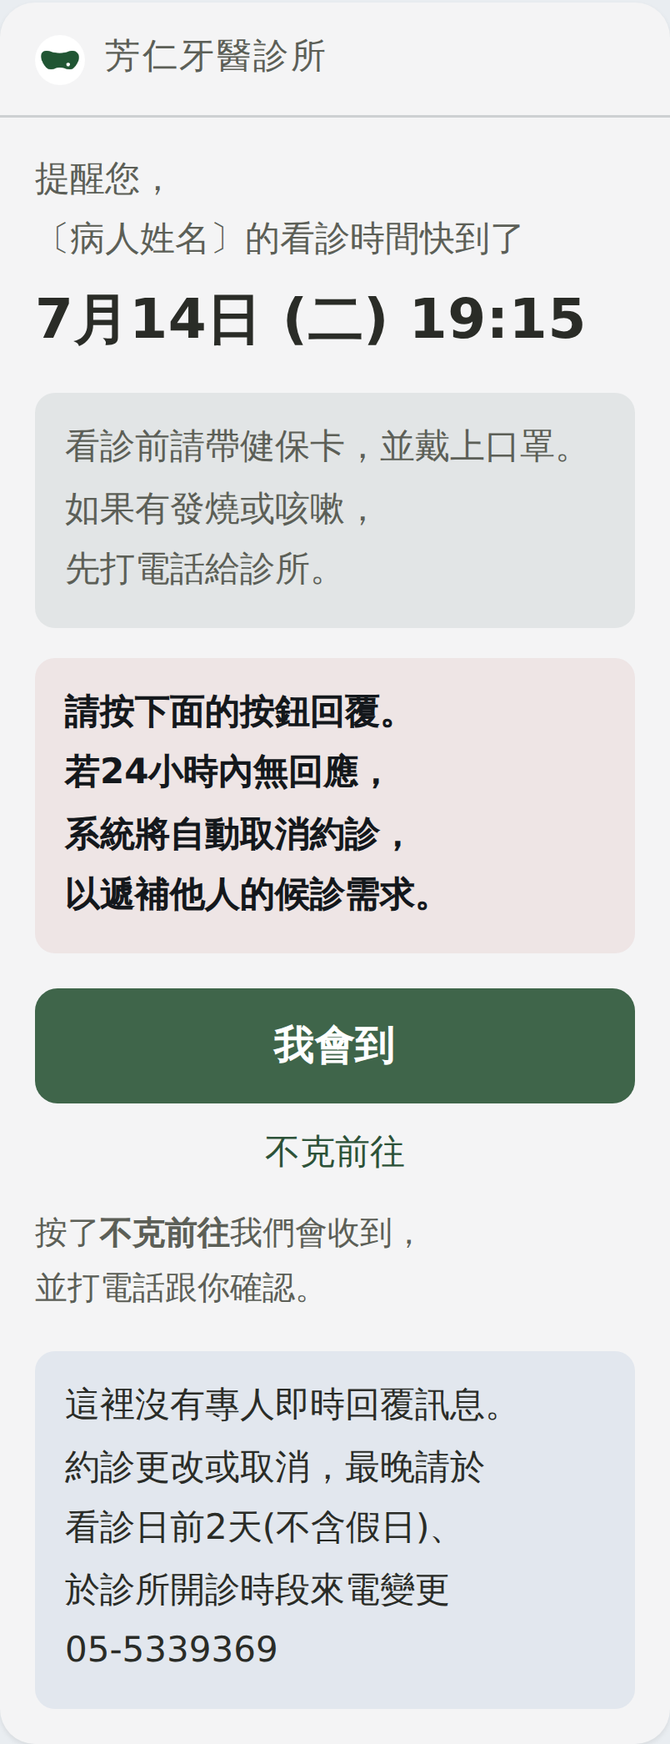
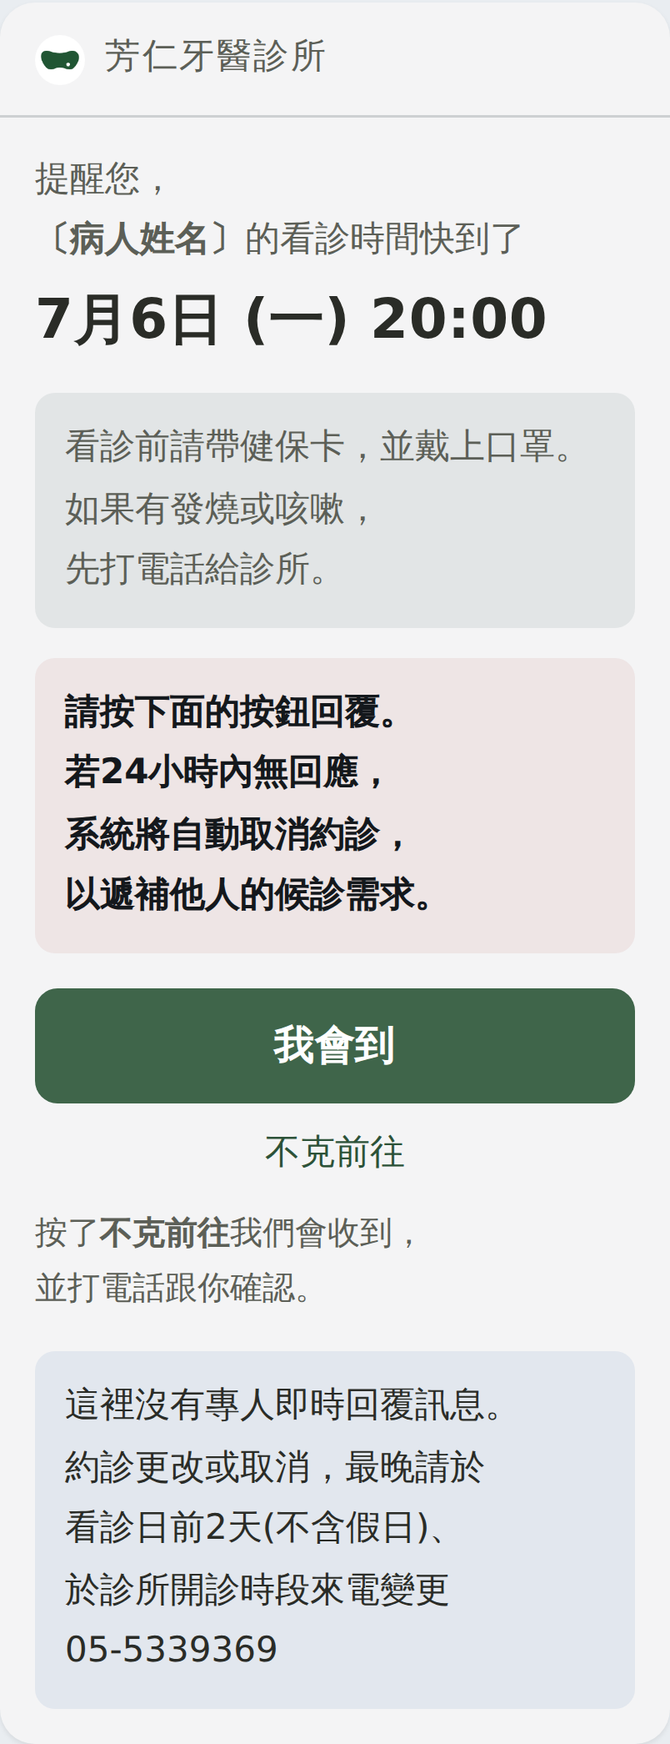
提醒卡：照真截圖把現況重做（量的，不是描的）＋ 兩件新發現
使用者給了現況的真截圖。自己解 PNG 逐像素量出來，前一版「照描」的
現況每一個數字都錯了：內文 16 不是 14、姓名與日期 22 不是 14/19、
內距 22 不是 13、標題列 43.7、按鈕 60、「⚠ 就診須知 ⚠」是靠右不是置中。
重量之後現況 615px(73%) 而不是 438px(52%) —— 新版只多 81px，
不是原本說的多 258px。忠實度：撐到截圖那個寬度差 5.5%。

兩件新發現：
・那張截圖是診所端的後台不是病人手機（標題是病人名字、有「使用手動
  聊天」與「已讀」），所以卡片 348px 不是病人看到的寬度。順帶記下
  268 這個數字我們從來沒在病人手機上量過。
・⚠⚠ 它不是 48 小時送的：7/3(五)送、約診 7/6(一)，整整 3 天。
  可能是系統會避開休診日（那 19-12 那題有一半有答案了），也可能是
  固定 3 天前。一個樣本推不出通則，要再看一兩則。

新版跟著改一件：姓名加粗（不放大，日期仍然最大），高度一毛不花。

Claude-Session: https://claude.ai/code/session_01UiTa6aiLj4tvM4QQAkTm2r

Changed region(s): [[0.0933, 0.1243, 0.8706, 0.2176]]

diff --git a/preview/line-remind/index.html b/preview/line-remind/index.html
@@ -69,23 +69,41 @@ h1{font-size:1rem;font-weight:700;letter-spacing:.02em}
 .pv-hc{width:100%;border-radius:14px;overflow:hidden;
   box-shadow:0 1px 2px rgba(0,0,0,.08)}
 
-/* ---- Ⓐ 現況：照使用者提供的截圖重做 ---------------------------------
-   ⚠ 顏色是從截圖描的（橄欖綠標題列、紅字），**不是站上的色** ——
-     它們刻意不寫進 PALETTE.md，也不要拿去別的地方用。 */
+/* ---- Ⓐ 現況：**從使用者 2026-09-04 提供的真截圖逐項量出來的** -------
+   ⚠⚠ 那張截圖是**診所端的後台聊天室**（標題是病人的名字、底下有「使用手動聊天」
+     與「預約傳送」、卡片下面有「已讀」），**不是病人的手機**。
+     所以**那裡的卡片寬度 348px 不能拿來當病人看到的寬度** —— 這一頁仍然照 268px 畫。
+   ⚠ 但**字級可以拿**：Flex 的字級是固定 px，跟卡片多寬無關。
+   量到的（375 CSS px 的螢幕、3× 截圖，逐像素解出來）：
+     卡片 348 × 約 560px、左右內距 22px
+     標題列 高 43.7px、白字 19px、置中
+     病人姓名 22px；「提醒您，您的看診時間將至」等內文與清單 16px
+       （「請問您是否前往看診呢？」11 個全形字 ＝ 176.0px，16 整除）
+     日期 22px 粗體
+     「⚠ 就診須知 ⚠」**靠右**（中心 245.3，而版心中心是 174）—— 不是置中
+     紅字置中 16px；綠色藥丸鈕 高 60px、左右比文字內距各外擴 14.5px
+     「不克前往，預約改期」19px 置中
+   ⚠ 顏色是從截圖描的（橄欖綠 #7c8a63、紅字 #d0021b），**不是站上的色** ——
+     刻意不寫進 PALETTE.md，也不要拿去別的地方用。
+   ⚠⚠ 這一頁把它畫在 **268px** 上（病人那一側的寬度），所以它會比截圖裡**更高、
+     折更多行** —— 那是預測不是量測，面板上的高度要這樣讀。 */
 .pv-old{background:#fff;color:#333}
 .pv-old .h{background:#7c8a63;color:#fff;font-weight:700;text-align:center;
-  padding:10px 8px;font-size:16px;line-height:1.5}
-.pv-old .b{padding:12px 13px 14px;font-size:14px;line-height:1.7}
+  padding:9px 8px;font-size:19px;line-height:1.35}
+.pv-old .b{padding:18px 22px 18px;font-size:16px;line-height:1.7}
 .pv-old .who{color:#555}
-.pv-old .dt{font-weight:700;color:#111;font-size:19px;margin:8px 0 10px}
+.pv-old .who .nm{font-size:22px;color:#333}
+.pv-old .dt{font-weight:700;color:#111;font-size:22px;line-height:1.4;margin:10px 0 0}
 .pv-old hr{border:0;border-top:1px solid #e0e0e0;margin:10px 0}
-.pv-old .nh{text-align:center;font-weight:700;color:#333;margin-bottom:5px;font-size:14px}
-.pv-old ol{margin:0 0 0 1.25em;padding:0;font-size:13px;line-height:1.75}
-.pv-old ol li{margin:3px 0}
-.pv-old .red{color:#d0021b;font-weight:700;text-align:center;margin:11px 0 9px;font-size:13px}
+/* ⚠ 靠右不是置中 —— 量出來中心偏右 71px。 */
+.pv-old .nh{text-align:right;font-weight:700;color:#333;margin-bottom:11px;font-size:19px}
+.pv-old ol{margin:0 0 0 1.4em;padding:0;line-height:1.75}
+.pv-old ol li{margin:9px 0}
+.pv-old .red{color:#d0021b;font-weight:700;text-align:center;margin:10px 0 8px}
+/* 藥丸鈕比文字內距**再往外**：量到左右各離卡片邊 7.5px，而內距是 22 → 外擴 14.5 */
 .pv-old .btn{background:#7c8a63;color:#fff;font-weight:700;text-align:center;
-  padding:11px;border-radius:22px;font-size:16px}
-.pv-old .sub{color:#7c8a63;text-align:center;font-size:14px;padding-top:10px}
+  padding:16px;border-radius:30px;font-size:19px;line-height:1.4;margin:0 -14px}
+.pv-old .sub{color:#7c8a63;text-align:center;font-size:19px;padding-top:12px}
 
 /* ---- Ⓑ 新版：和招呼圖卡／綁定完成同一套（卡 268、內距 14）------------
    顏色一顆都沒新增，全部回 PALETTE.md 拿：
@@ -196,10 +214,10 @@ h1{font-size:1rem;font-weight:700;letter-spacing:.02em}
   <div class="pv-phone">
     <div class="pv-head"><img src="../../assets/icon-192.png" alt=""><span class="b">芳仁牙醫診所</span><span class="x">⋯</span></div>
     <div class="pv-chat">
-      <div class="pv-day">7 月 12 日</div>
+      <div class="pv-day">7 月 3 日（五）</div>
       <div class="pv-msg"><img class="pv-av" src="../../assets/icon-192.png" alt="">
         <div id="pv-slot"></div>
-        <span class="pv-t">10:00</span></div>
+        <span class="pv-t">20:00</span></div>
     </div>
   </div>
   <p class="pv-cap">↑ 這一則是<b>診所這一側主動送出</b>的，所以聊天室裡沒有病人自己的訊息。
@@ -239,16 +257,27 @@ h1{font-size:1rem;font-weight:700;letter-spacing:.02em}
   /* ---- 現況（照截圖，姓名已遮）------------------------------------- */
   var OLD = {
     name: "Ⓐ 現況",
-    note: "廠商系統現在送出的那一張（照你提供的截圖重做，顏色是從截圖描的）。"
-      + "六件問題在 channels/README 第 9-1 節：<b>飽和的橄欖綠滿版標題列</b>、"
+    note: "廠商系統現在送出的那一張。<b>2026-09-04 你給了真截圖，這一份是逐像素量出來重做的</b>"
+      + "（不是照描）：內文與清單 <b>16px</b>、病人姓名與日期 <b>22px</b>、標題列與"
+      + "「不克前往」<b>19px</b>、左右內距 <b>22px</b>、標題列高 <b>43.7px</b>、"
+      + "藥丸鈕高 <b>60px</b>（左右比文字內距各再外擴 14.5px）。"
+      + "<br>⚠ 量法：「請問您是否前往看診呢？」11 個全形字量到 <b>176.0px</b>，"
+      + "16 整除 —— <b>字級是算出來的，不是目測的</b>。"
+      + "<hr>六件問題在 channels/README 第 9-1 節：<b>飽和的橄欖綠滿版標題列</b>、"
       + "<b>⚠ 就診須知 ⚠</b>（把戴口罩講成警報）、<b>紅字＋↓↓ 箭頭</b>、"
       + "<b>「點此 👉 確定會到！」</b>（emoji ＋ 驚嘆號 ＋「點此」三重用力）、"
-      + "<b>編號清單＋『』引號</b>（公文體）、以及<b>資訊層級亂</b>——"
+      + "<b>編號清單＋『』引號</b>（公文體）、以及<b>資訊層級亂</b> —— "
       + "日期雖然大，卻被上下的雜訊淹沒。"
-      + "<br>⚠ 另外三件是**事實**不是美感："
+      + "<br>⚠⚠ 截圖還量到<b>第七件</b>，之前沒發現：那一行「⚠ 就診須知 ⚠」"
+      + "<b>是靠右的，不是置中</b>（中心 245.3，而版心中心是 174）—— "
+      + "它和上下每一段都沒有對齊。"
+      + "<br>⚠⚠ 以及<b>第八件</b>：「2. 有發燒/咳嗽/呼吸道症狀等，請來電改約」"
+      + "<b>在截圖上真的折出一個孤字「約」</b>（量到那一行只有 13.7px 寬）。"
+      + "<hr>另外三件是<b>事實</b>不是美感："
       + "①標題寫「<b>斗六</b>芳仁牙醫診所」，站上與其他每一個地方都是「芳仁牙醫診所」；"
       + "②「〔病人姓名〕 提醒您」的語序讀起來像<b>那個人在提醒你</b>"
-      + "（名字本身是必要的 —— 一個帳號收得到好幾個家人的提醒，那是唯一分得出是誰的線索）；"
+      + "（名字本身是必要的 —— 一個帳號收得到好幾個家人的提醒，那是唯一分得出是誰的線索。"
+      + "⚠ 而它<b>把名字放到 22px</b>，那是這張卡少數做對的一件）；"
       + "③須知第 2 條「請來電改約」和底下那顆「不克前往，預約改期」<b>互相矛盾</b>"
       + "（一個叫他打電話、一個叫他按按鈕）。"
   };
@@ -316,9 +345,10 @@ h1{font-size:1rem;font-weight:700;letter-spacing:.02em}
     return '<div class="pv-hc pv-old" id="pv-body">'
       + '<div class="h">斗六芳仁牙醫診所</div>'
       + '<div class="b">'
-      + '<div class="who">〔病人姓名〕 提醒您，您的看診時間將至 請問您是否前往看診呢？</div>'
-      + '<div class="dt">2026/07/14 (二) 19:15</div><hr>'
-      + '<div class="nh">⚠ 就診須知 ⚠</div>'
+      + '<div class="who"><span class="nm">〔病人姓名〕</span> 提醒您，您的看診時間將至 '
+      + '請問您是否前往看診呢？</div>'
+      + '<div class="dt">2026/07/06 (一) 20:00</div><hr>'
+      + '<div class="nh">\u26a0\ufe0f 就診須知 \u26a0\ufe0f</div>'
       + '<ol><li>進入醫療場所者請戴『口罩』與攜帶『健保卡』</li>'
       + '<li>有發燒/咳嗽/呼吸道症狀等，請來電改約</li></ol><hr>'
       + '<div class="red">↓ 請點擊下方按鈕，回覆是否前往看診 ↓</div>'
@@ -338,8 +368,12 @@ h1{font-size:1rem;font-weight:700;letter-spacing:.02em}
       + '<div class="top"><img src="../../assets/icon-192.png" alt=""><b>芳仁牙醫診所</b></div>'
       + '<div class="b">'
       + '<p class="lead">提醒您，</p>'
-      + '<p class="lead nm" id="pv-lead">〔病人姓名〕的看診時間快到了</p>'
-      + '<p class="dt">7月14日 (二) 19:15</p>';
+      /* ⚠ 姓名加粗（Flex 就是一個 span 加 weight: bold，顏色不動）——
+           現況那一張把姓名放到 22px，那是它少數做對的一件：一個帳號收好幾個
+           家人的提醒，「這一次是誰」和「什麼時候」一樣要一眼看到。
+           但這一頁的層級是**日期最大**，所以名字不放大、改用加粗，高度一毛不花。 */
+      + '<p class="lead nm" id="pv-lead"><b>〔病人姓名〕</b>的看診時間快到了</p>'
+      + '<p class="dt">7月6日 (一) 20:00</p>';
     if (kn !== "none") h += '<p class="box know">' + KNOW[kn].text + '</p>';
     if (wa === "box")  h += '<p class="box warn">' + WARN_TEXT + '</p>';
     if (wa === "line") h += '<p class="warnline">' + WARN_TEXT + '</p>';
@@ -520,10 +554,13 @@ h1{font-size:1rem;font-weight:700;letter-spacing:.02em}
           ? "<span class='no'>出現「" + lied.join("、") + "」</span>"
           : "<span class='ok'>守住了</span>")
       + (v === "old"
-          ? "<br><span class='no'>⚠ 現況這一張是照截圖重做的**近似**</span>"
-            + "：字級用 Flex 的固定 px 表填的，廠商實際用多大我們沒有量過。"
-            + "所以上面的 px 與行數只能拿來看**結構**，不要當成它的真值；"
-            + "emoji、紅字、白字對綠底那三項才是逐項對得上的。"
+          ? "<br>⚠ 這一張是<b>從你 2026-09-04 的真截圖逐像素量出來</b>重做的"
+            + "（字級 16／19／22、內距 22、標題列 43.7、按鈕 60、就診須知靠右）。"
+            + "<b>忠實度</b>：把它撐到截圖那個寬度（348px）量到 <b>529px</b>，"
+            + "截圖是 <b>約 560px</b> —— <b>差 5.5%</b>，字級、標題列高、按鈕高、"
+            + "按鈕外擴、靠右都對得上。"
+            + "<br><span class='no'>⚠⚠ 但這裡畫在 268px 上，那是<b>預測不是量測</b></span>"
+            + "：你那張截圖是<b>診所端的後台</b>（卡片 348px），病人手機上比較窄。"
           : "")
       + "<hr>" + (v === "old" ? OLD.note : newNote());
   }
@@ -599,6 +636,33 @@ h1{font-size:1rem;font-weight:700;letter-spacing:.02em}
       + "<b>所以它非寫在這裡不可</b>，不然病人是在不知情的狀態下被計時。"
       + "<br>③ 家人綁定要洽櫃檯 —— <b>那一件不寫在這張卡上</b>："
       + "收到這一則的人早就綁好了，寫了是雜訊。"
+      + "<hr>"
+      + "⚠⚠⚠ <b>你那張截圖挖出一件我們一直搞錯的事：它不是 48 小時送的。</b>"
+      + "截圖上那一則的日期分隔是 <b>7/3（五）</b>，約診是 <b>7/6（一）20:00</b> —— "
+      + "<b>整整 3 天，不是 48 小時。</b>"
+      + "<br>48 小時前是<b>週六 20:00</b>，診所沒開。所以有兩種可能，"
+      + "<b>而兩種的意思完全不同</b>："
+      + "<br>　① 系統<b>會避開休診日</b>，自動往前挪到前一個開診日（週五）——"
+      + "那 <b>19-12 節那一題有一半已經有答案了</b>（那 24 小時大概也跟著跳過休診日）。"
+      + "<br>　② 它根本就是<b>固定 3 天前</b>送，和開不開診無關 —— 那只是這一次剛好落在週五。"
+      + "<br>⚠⚠ <b>一個樣本推不出通則</b>（同分享圖那一輪「LINE 不裁圖」的教訓）——"
+      + "<b>要再看一兩則不同星期的提醒才分得出來</b>：例如週三、週四的約診各一張截圖。"
+      + "<b>這件事要先問廠商，也可以直接看後台的排程設定。</b>"
+      + "<br>⚠ 順帶算一次：協議是「看診日前 2 天（不含假日）」＝ <b>2 個開診日前</b>，"
+      + "7/6（一）往回數就是 <b>7/2（四）</b>。這一則 7/3（五）送出，"
+      + "<b>仍然比期限晚一個開診日</b> —— 第 8-1 節那個矛盾還在，只是沒有原本以為的嚴重。"
+      + "<hr>"
+      + "⚠⚠ <b>那張截圖是「診所端的後台」，不是病人的手機</b>（標題是病人的名字、"
+      + "底下有「使用手動聊天」與「預約傳送」、卡片下面有「已讀」）。"
+      + "所以那裡量到的<b>卡片 348px 不是病人看到的寬度</b>，這一頁仍然照 <b>268px</b> 畫。"
+      + "<br>⚠⚠⚠ 但要老實說一件：<b>268 這個數字，我們從來沒有在病人的手機上量過</b> —— "
+      + "它是招呼卡那一輪定下來的工作值。<b>好消息是方向是安全的</b>："
+      + "真的比 268 寬的話，我們手斷的每一行都還在寬度內（只是保守）；"
+      + "反過來才會折。<b>要收掉這個不確定，只要一張病人手機上的截圖。</b>"
+      + "<br>⚠ 截圖也確認了兩件小事：<b>診所看得到「已讀」</b>"
+      + "（所以「有沒有回應」是量得到的）；以及後台有<b>「使用手動聊天」</b>這個功能。"
+      + "⚠⚠ 但那不改變紅線 —— <b>「這裡沒有專人即時回覆訊息」講的是診所的做法，"
+      + "不是系統做不做得到</b>，那句話照留。"
       + "<hr>"
       + "⚠⚠ <b>還沒問到廠商的兩題</b>（第 19-12 節，這一則直接受影響）："
       + "①那 24 小時<b>會不會跳過休診日</b> —— 週一的約診，提醒在<b>週六</b>發、"

diff --git a/CLAUDE.md b/CLAUDE.md
@@ -2298,7 +2298,7 @@ topics/<spec>/         ← 產出。**不要手改**，重跑就沒了
 | 招呼圖卡的頭圖 | `drafts/line-hello/`（`generate.mjs`／`bubble.mjs`／`README.md`）→ `preview/line-hello/hero-zenmaru.jpg`，規格頁 `/preview/line-hello/`。✅ 定案 |
 | **綁定完成** | ✅ **2026-09-04 定稿**（使用者：「最後定稿的是這個」）：**Ⓗ 你整理的・圖卡 ＋ 有頭圖 ＋ 改約那一塊用淡藍 `.10` 的淡底**。Flex 的 JSON 在 **`drafts/channels/bind-done-card.json`**，規格頁 `/preview/line-bind-done/`（**切換條已拿掉**），守門 **`node drafts/channels/check-bind-done.mjs`**，圖片兩張（`node drafts/channels/bind-done-png.mjs`，加 `--chat` 出第二張）：`shot-bind-done.png`（卡片本身，804×1857，3×）與 **`shot-bind-done-chat.png`**（**在 LINE 裡長什麼樣的模擬**，1206×2427，3×）。⚠ 模擬那張要用 **430 寬**拍 —— 429 以下手機框會貼齊頁面兩邊、圓角與左右框線被拿掉。⚠ **換視窗寬度截圖之前要先量「要展示的那個東西有沒有跟著變」**：實測 390 與 430 卡片都是 **268.0px**，只有周邊留白差 12px（第 **19-21** 節）。⚠ **Ⓖ 沒有真的落選** —— 它是「廠商送不出 Flex Message」時的退路（同一份內容一字不差），規格頁最底下仍然畫著它。⚠⚠ **兩塊淡底在 JSON 裡要寫合成後的實色**（警示 `#EEE5E6` ＝ 磚紅 .09、改約 `#E2E8EF` ＝ 淡藍 .10），不要寫半透明。⚠ **沒有拆成 body ＋ footer**（招呼卡那樣拆是因為中間有 separator，這一張兩塊方塊之間刻意沒有分隔線）。推導在第 **19-20** 節。以下是走到定稿的過程 —— **提案中**：`/preview/line-bind-done/`（**八案**，2026-09-03 開；**Ⓖ／Ⓗ 是使用者 2026-09-04 自己整理的那一份**，Ⓖ 純文字、Ⓗ 同一份做成圖卡，帶進三件新事實：提醒**要回覆確認**、**24 小時沒回應系統會自動取消**並遞補、家人綁定**要洽櫃檯**）。推導在 `drafts/channels/README.md` **第十九節**（09-04 那一輪在 **19-12**），定稿文字在 `drafts/line-auto-reply/README.md` 第 24-2 節「貳」。⚠ 使用者挑完才寫 Flex 的 JSON。⚠⚠ **時間的說法 2026-09-04 定案「看診前 48 小時」**，切換條上那一排已經收掉；**但招呼圖卡仍然寫「看診前2天」**（使用者自己逐字寫的、已定案），兩則目前不一致，**要統一得他點頭**。⚠ 這個 48 小時和「看診日 2 天前（不含假日）」是兩個不同的數字（提醒時機 vs 改約期限），**不要順手改成一致**。⚠⚠ 2026-09-04 再兩件（第 **19-13** 節）：「這裡沒有專人即時回覆訊息」**搬到改約那一段前面**（它是「為什麼要打電話」的前提）；24 小時那一段接上一把**強調**的尺（`?e=`），**兩種容器的四格不一樣** —— LINE 的**純文字訊息沒有粗體也沒有顏色**，只剩空行與記號，Flex 圖卡才做得到加粗／換色／淡底方塊。⚠⚠ 2026-09-04 再兩件（第 **19-15** 節）：**圖卡那一側定案「淡底方塊」**（切換條上收掉、寫死；純文字那一側還沒定案、那一排還在）；**改約那一句換成使用者的寫法**「約診更改或取消，最晚請於看診日前 2 天（不含假日）、於診所開診時段來電變更」——「最晚」把期限講死，**「開診時段」取代「週一至週五」**（國定假日休不休診還沒問到，寫「開診時段」就不必替診所答那一題）。⚠ 其餘六案仍是舊寫法，**刻意沒動**，等他挑完哪一案再統一。⚠⚠ 2026-09-04 再一件（第 **19-16** 節）：**改約那一段也做成淡底方塊**，底色四選一（紙灰／品牌綠／深綠松／同上面），**兩塊之間那條分隔線拿掉了**。⚠⚠ **綠與深綠松是 `.16` 不是 `.09`** —— 量過，九分之一濃時四個底色全部落在 **1.1 階**之內（L\* 90.6~91.7），**四格長得一模一樣、那把尺沒有意義**；`.16` 才讀得出是綠的，代價是比上面那塊磚紅重約 4 階。**通則：一把尺給出去之前先算四格彼此差多少，差不出來的尺比沒有尺還糟**。⚠⚠ 2026-09-04 再三件（第 **19-17** 節）：**加了淡藍、深綠松那一格拿掉**（深綠松 `.16` 是 L\* 86.2・彩度 2.5，和品牌綠的 87.6・2.7 分不出來）；淡藍**不能用官方色票那支** `#3C596B`（`.16` 彩度只剩 2.5，讀起來是灰的），取的是**齒顎矯正那支套色** `#4478b5`（`.16` 彩度 6.3，站上唯一淡開之後還讀得出是藍的）——**已知取捨：那是矯正的顏色**，但這一則不在站上也不在任何科別頁裡，不會和標記撞在一起。**通則的第二半：每一格還要撐得起它自己的名字，判準是彩度不是色相。**⚠ **數字前後那幾個半形空格拿掉了**（我照站上內文的習慣加的，他自己寫的那一份沒有），「（不含假日）」的**全形括號換成半形**（全形一組吃掉約 19px）。⚠⚠ **Ⓗ 那兩段之間的空行換成段落間距**：`\n\n` 是一整行 **24.5px**，拆成兩個 `text` ＋ 一個 `margin` 是 **8px**。**通則：Flex 裡兩段的距離有兩把工具，不要只會用空行**（`margin` 有 xs 4 ~ xxl 24 六階）；**Ⓖ 純文字那一側沒有這把工具，只有空行**。⚠⚠ 2026-09-04 再兩件（第 **19-18** 節）：**淡藍收到 `.10`**（使用者：「淡藍色看過去比上面的淡紅色還濃　要調成一樣的」）——「一樣濃」＝ **兩塊合成到卡色之後的 L\* 相同**，基準是磚紅 `.09` 的 L\* 91.6，反解出 a = .101。⚠⚠⚠ **而只有藍做得到，品牌綠與深綠松兩格因此都拿掉了**：壓到同一個 L\* 之後剩下的彩度是**淡藍 4.06**／磚紅 3.29／官方藍 1.50／品牌綠 1.37／深綠松 1.19，而**紙灰自己就是 1.18** ——「等重的綠」畫出來就是紙灰那一格。尺剩三格（紙灰／淡藍 .10／同上面）。**通則的第三半：「看得出顏色」與「和旁邊等重」是兩個要求，只有夠飽和的色相同時滿足得了；判斷方法是把每一支色壓到目標 L\* 再看誰的彩度還在。**⚠ **Ⓗ 那一對全形「」拿掉了，改成把選單名加粗**（使用者：「「」的全形也有很大的空格」）——`「`／`」` 各佔一整個全形字寬但墨只有角落那一撇，一對吃掉 **28.3px**（那一行 183.8 → 155.5）。Flex 就是一個 `span` 加 `weight: bold`，顏色不動。⚠⚠ **Ⓖ 純文字那一對留著，不是漏改** —— 純文字沒有粗體，拿掉引號就標示不出那是選單名。⚠ 實作：`<b>` **不可以寫進資料裡**（`spec()` 要拿同一份字串比對孤字），資料維持純文字、多一個 `strong` 欄位，`render()` 那一層才包。⚠ 2026-09-04 **存成圖片了**（第 **19-19** 節）：`node drafts/channels/bind-done-png.mjs` → `preview/line-bind-done/shot-card-{pa,bl,br}.png`（圖卡三格底色）、`shot-text.png`（純文字泡泡）、`shot-cards.png`（三格並排）。⚠⚠ **出在 `preview/` 不是 `drafts/`** —— drafts 進不了 `_site`，而使用者要的是「也存在網路上」（招呼卡那支 `card-png.mjs` 出在 drafts/，兩支落點不同是刻意的）。⚠⚠ **拍的是提案頁自己那張卡**，所以**那一頁改了就要重跑**，不然圖會開始說謊 |
 | 綁定完成的頭圖 | ✅ **2026-09-03 第四版定案**（使用者：「很不錯，就用這個圖吧」）—— 成品 `preview/line-bind-done/hero-bind.jpg`（**1024×512**，`node drafts/bind-done-hero-crop.mjs`，原檔 `drafts/bind-done-v4-src.jpg`），已接進提案頁 Ⓑ 那一案。定稿提示詞與逐輪推導在 **`drafts/line-bind-done-prompt.md`** —— 〈創造亞當〉的診間版（Gemini 出圖，使用者自己跑，走了四版）。⚠⚠⚠ **不要把原作那個「上帝在上」抹平成兩人等高** ——第一版就是這樣被退回的（寓意沒了，而且兩個成年人同高對指會被讀成醫病關係不單純）：**一側是一團人、飄著、比較高，另一側一個人躺著、比較低**，這個不對等就是那張畫的梗。⚠ 但**不對等只能靠位置給、不可以靠肌肉張力給** —— 第三版把病患的手寫成鬆垮的，整個人看起來像喝醉（＝麻醉或鎮靜的聯想）。⚠ 臉一律照站上那一套（有膚色、眉毛、鼻子、有表情的嘴），**不隨風格參考圖走**。逐輪紀錄與六條驗收在那一份，通則在 ILLUSTRATION.md 第十三節 |
-| **提醒卡（看診前 48 小時）** | ⏳ **2026-09-04 開了提案頁 `/preview/line-remind/`（兩案 ＋ 五把尺，還沒定案）**。⚠⚠ 這一頁是使用者約好要定**版型與那顆確認的按鈕**的地方（第 19-12 節），定完再回頭看綁定完成那一則要不要多寫一句。推導在 `drafts/channels/README.md` **第二十節**。⚠⚠⚠ **`drafts/channels/reminder-card.json` 是 2026-09-02 的舊版，不要拿給廠商** —— 它沒有 24 小時那一段、改約那句是舊寫法、日期還帶年份；**使用者挑完才會重寫**。⚠⚠ **24 小時自動取消那件事是「這一張卡」的事**：那 24 小時是從這一則送出的那一刻開始算的，綁定完成那一則只是先告訴他有這回事 —— 所以非寫在提醒卡上不可，不然病人是在不知情的狀態下被計時。⚠ 新版比現況高（696 vs 438px，82% vs 52%），**那是三件新事實的代價不是寫鬆了**；五把尺全部可以砍，最少 460px。⚠⚠ **有變數的那一行不能手動斷行**（`{{patient}}` 是系統填的）—— 做法是把「提醒您，」單獨一行、讓變數那一行從行首開始，名字 8 個字以內都不會折。⚠ 日期只要求兩件（拿掉年份、月日改中文），**括號維持廠商現在的半形** —— 要求的改動愈小愈可能真的改到。⚠ 「沒有專人＋改約期限＋電話」那一整塊**逐字沿用綁定完成那一則**（淡藍 `.10`），同一件事兩則用同一組字。⚠ 圖三張 `node drafts/channels/remind-png.mjs`（加 `--old`／`--chat`），**拍的是提案頁自己那張卡，那一頁改了就要重跑**。⚠ 時機**維持 48 小時**（第 15-9 節已結案，不要再提拆兩次或用開診日算）。時間換算 `timing.mjs` |
+| **提醒卡（看診前 48 小時）** | ⏳ **2026-09-04 開了提案頁 `/preview/line-remind/`（兩案 ＋ 五把尺，還沒定案）**。⚠⚠ 這一頁是使用者約好要定**版型與那顆確認的按鈕**的地方（第 19-12 節），定完再回頭看綁定完成那一則要不要多寫一句。推導在 `drafts/channels/README.md` **第二十節**。⚠⚠⚠ **`drafts/channels/reminder-card.json` 是 2026-09-02 的舊版，不要拿給廠商** —— 它沒有 24 小時那一段、改約那句是舊寫法、日期還帶年份；**使用者挑完才會重寫**。⚠⚠ **24 小時自動取消那件事是「這一張卡」的事**：那 24 小時是從這一則送出的那一刻開始算的，綁定完成那一則只是先告訴他有這回事 —— 所以非寫在提醒卡上不可，不然病人是在不知情的狀態下被計時。⚠⚠ **現況那一張是從使用者 2026-09-04 的真截圖逐像素量出來重做的**（內文 16px、姓名與日期 22px、內距 22px、標題列 43.7、按鈕 60、「⚠ 就診須知 ⚠」**靠右不是置中**）——⚠⚠⚠ **第一版是「照描」的，字級全部猜小了（內文猜成 14、內距猜成 13），把現況量成 438px，結論整個錯**。**通則：照截圖描一份和量一份是兩件事** —— 描出來的很像，數字全錯，而後面每一個判斷都建立在那些數字上。重量之後：現況 615px（73%）、新版全留 696px（82%）、全砍 460px（55%），**新版只多 81px**。⚠⚠⚠ **那張截圖是診所端的後台不是病人手機**（標題是病人名字、有「使用手動聊天」與「已讀」），所以它的卡片 348px **不是病人看到的寬度**；⚠ 而 **268 這個數字我們從來沒有在病人手機上量過**（是招呼卡那一輪的工作值）—— 方向是安全的（真的更寬只是保守），但**要一張病人手機的截圖才收得掉**。⚠⚠⚠ **它不是 48 小時送的**：截圖上 7/3（五）送、約診 7/6（一）＝ 3 天。48 小時前是週六、診所沒開 —— 可能是**系統會避開休診日**（那 19-12 那題有一半有答案了），也可能是**固定 3 天前**。**一個樣本推不出通則，要再看一兩則不同星期的**，或直接看後台排程。⚠ 順帶：協議期限是 7/2（四），7/3 送仍然晚一個開診日 —— 8-1 那個矛盾還在，只是沒那麼嚴重。⚠⚠ **有變數的那一行不能手動斷行**（`{{patient}}` 是系統填的）—— 做法是把「提醒您，」單獨一行、讓變數那一行從行首開始，名字 8 個字以內都不會折。⚠ 日期只要求兩件（拿掉年份、月日改中文），**括號維持廠商現在的半形** —— 要求的改動愈小愈可能真的改到。⚠ 「沒有專人＋改約期限＋電話」那一整塊**逐字沿用綁定完成那一則**（淡藍 `.10`），同一件事兩則用同一組字。⚠ 圖三張 `node drafts/channels/remind-png.mjs`（加 `--old`／`--chat`），**拍的是提案頁自己那張卡，那一頁改了就要重跑**。⚠ 時機**維持 48 小時**（第 15-9 節已結案，不要再提拆兩次或用開診日算）。時間換算 `timing.mjs` |
 
 ### 十一之二、⚠⚠ LINE Flex Message 的硬條件（不知道會做出對不上的東西）
 

diff --git a/drafts/channels/README.md b/drafts/channels/README.md
@@ -2478,14 +2478,22 @@ node drafts/channels/bind-done-png.mjs --chat   # → preview/line-bind-done/sho
 
 | | 高 | 佔一屏 | emoji | 紅字 | 字數 |
 | --- | ---: | ---: | ---: | ---: | ---: |
-| Ⓐ 現況 | 438px | 52% | **3**（⚠ ⚠ 👉） | **1 行** | 137 |
-| Ⓑ 新版・全部留 | **696px** | **82%** | 0 | 0 | 197 |
-| Ⓑ 新版・全砍 | 460px | 54% | 0 | 0 | 124 |
+| Ⓐ 現況 | **615px** | **73%** | **3**（⚠ ⚠ 👉） | **1 行** | 139 |
+| Ⓑ 新版・全部留 | 696px | 82% | 0 | 0 | 196 |
+| Ⓑ 新版・全砍 | 460px | 55% | 0 | 0 | 123 |
 
-⚠⚠ **新版比現況高，那不是寫鬆了，是三件新事實的代價** —— 24 小時自動取消那一段、
+> ⚠⚠ **這張表 2026-09-04 晚間整個換過**（見 20-10）。第一版把現況量成 438px／52%，
+> 那是**照描的**、字級猜小了；使用者當天給了真截圖，逐像素量出來現況的內文是
+> **16px 不是 14**、姓名與日期 **22px**、內距 **22px 不是 13** ——
+> 重做之後現況在 268px 上是 **615px**。
+> **所以「新版比現況高很多」那句話是錯的，實際只多 81px（＋13%）。**
+> ⚠ 通則：**照截圖「描」一份出來，和「量」一份出來，是兩件事** ——
+> 描出來的東西看起來很像，數字全錯，而我們接下來所有的判斷都建立在那些數字上。
+
+⚠⚠ **新版仍然比現況高，那不是寫鬆了，是三件新事實的代價** —— 24 小時自動取消那一段、
 誠實交代按鈕按下去會怎樣、以及改約那一整塊（現況上這三件**一個字都沒有**）。
 使用者說「需要刪減的我再來看」，所以五把尺全部做成**可以砍**的，
-最少那一格 460px ＝ 54%，仍然比現況只多 22px。
+最少那一格 460px ＝ 55%，**比現況還短 155px**。
 
 ⚠ 第 9-3 節那張「現況 390／新版 400px」的表**作廢**：那是 2026-09-02 量的，
 當時新版還沒有 24 小時那一段（那個事實 09-04 才進來）。
@@ -2593,3 +2601,75 @@ node drafts/channels/remind-png.mjs --chat   # → preview/line-remind/shot-remi
 
 ⚠ 這一則和另外三則不一樣：它是**主動推播**，所以**要計費**（第 15-1 節）。
 ⚠ **時機維持 48 小時**，第 15-9 節已經結案，不要再提拆兩次或改成開診日算。
+
+### 20-10　⚠⚠⚠ 2026-09-04 晚間：使用者給了現況的**真截圖**，挖出三件
+
+#### 一、那張截圖是**診所端的後台**，不是病人的手機
+
+判準三個，都在畫面上：**標題是病人的名字**（不是「芳仁牙醫診所」）、
+底下有**「若希望暫時以手動聊天功能進行回覆」與「預約傳送」**、卡片下面有**「已讀」**。
+
+→ 所以**那裡量到的卡片寬度 348px 不是病人看到的寬度**（後台沒有大頭貼那一欄）。
+提案頁仍然照 **268px** 畫。
+
+⚠⚠⚠ 但要老實說：**268 這個數字，我們從來沒有在病人的手機上量過** ——
+它是招呼卡那一輪（18-4）定下來的工作值。**好消息是方向是安全的**：
+真的比 268 寬，我們手斷的每一行都還在寬度內（只是保守）；反過來才會折。
+**要收掉這個不確定，只要一張「病人手機上」的截圖。**
+
+#### 二、⚠⚠⚠ 它**不是 48 小時**送的
+
+截圖上那一則的日期分隔是 **7/3（五）**，約診是 **7/6（一）20:00** —— **整整 3 天**。
+48 小時前是**週六 20:00**，診所沒開。兩種可能，**意思完全不同**：
+
+1. 系統**會避開休診日**，自動往前挪到前一個開診日 → **19-12 那一題有一半已經有答案了**
+   （那 24 小時大概也跟著跳過休診日）。
+2. 它根本是**固定 3 天前**送，和開不開診無關 —— 這一次只是剛好落在週五。
+
+⚠⚠ **一個樣本推不出通則**（同「LINE 不裁圖」那一輪）——
+**要再看一兩則不同星期的提醒**（週三、週四的約診各一張）才分得出來，
+或者直接看後台的排程設定。**這一題加進廠商那一份。**
+
+⚠ 順帶算一次：協議「看診日前 2 天（不含假日）」＝ 2 個開診日前，7/6（一）往回數是
+**7/2（四）**。這一則 7/3（五）送出，**仍然比期限晚一個開診日** ——
+第 8-1 節那個矛盾還在，只是沒有原本以為的嚴重。
+
+#### 三、現況那一張逐像素量出來（375 CSS px 螢幕、3× 截圖，自己用 zlib 解 PNG）
+
+| | 量到 |
+| --- | ---: |
+| 卡片 | **348 × 約 560px**，左右內距 **22px** |
+| 標題列 | 高 **43.7px**、白字 **19px**、置中 |
+| 病人姓名 | **22px** |
+| 提醒句與清單 | **16px** |
+| 日期 | **22px** 粗體 |
+| 「⚠ 就診須知 ⚠」 | **靠右**（中心 245.3，版心中心 174） |
+| 紅字 | 置中 |
+| 綠色藥丸鈕 | 高 **60px**，左右比文字內距各再**外擴 14.5px** |
+| 「不克前往，預約改期」 | **19px** 置中 |
+
+⚠⚠ **字級是算出來的不是目測的**：「請問您是否前往看診呢？」11 個全形字量到
+**176.0px**，16 整除 → 內文就是 16px。**這種驗算比「看起來像 14」可靠一個數量級。**
+
+**多抓到兩件之前沒發現的問題**（9-1 那六件之外）：
+- **第七件**：「⚠ 就診須知 ⚠」**是靠右的**，和上下每一段都沒有對齊。
+- **第八件**：「2. 有發燒/咳嗽/呼吸道症狀等，請來電改約」**真的折出一個孤字「約」**
+  （量到那一行只有 13.7px 寬）。⚠ 而那是在 **348px** 上就已經折了 ——
+  病人那一側更窄，只會更糟。
+
+**忠實度驗收**：重做的那一份撐到 348px 量到 **529px**，截圖是約 560px，**差 5.5%**；
+字級、標題列高、按鈕高、按鈕外擴、靠右全部對得上。**這個數字寫在提案頁的面板上**，
+不要把重做的當成真值。
+
+#### 四、跟著確認、但**不改**的兩件
+
+- **診所看得到「已讀」** → 「有沒有回應」是量得到的。
+- 後台有**「使用手動聊天」** → ⚠⚠ 但那**不改變紅線**：
+  「這裡沒有專人即時回覆訊息」講的是**診所的做法**，不是系統做不做得到。那句話照留。
+
+#### 五、新版跟著改的一件
+
+現況把**姓名放到 22px**，那是它少數做對的一件（一個帳號收好幾個家人的提醒，
+「這一次是誰」和「什麼時候」一樣要一眼看到）。
+新版的層級是**日期最大**，所以名字**不放大、改成加粗**（Flex 就是一個 `span` 加
+`weight: bold`，顏色不動）—— **高度一毛不花**。
